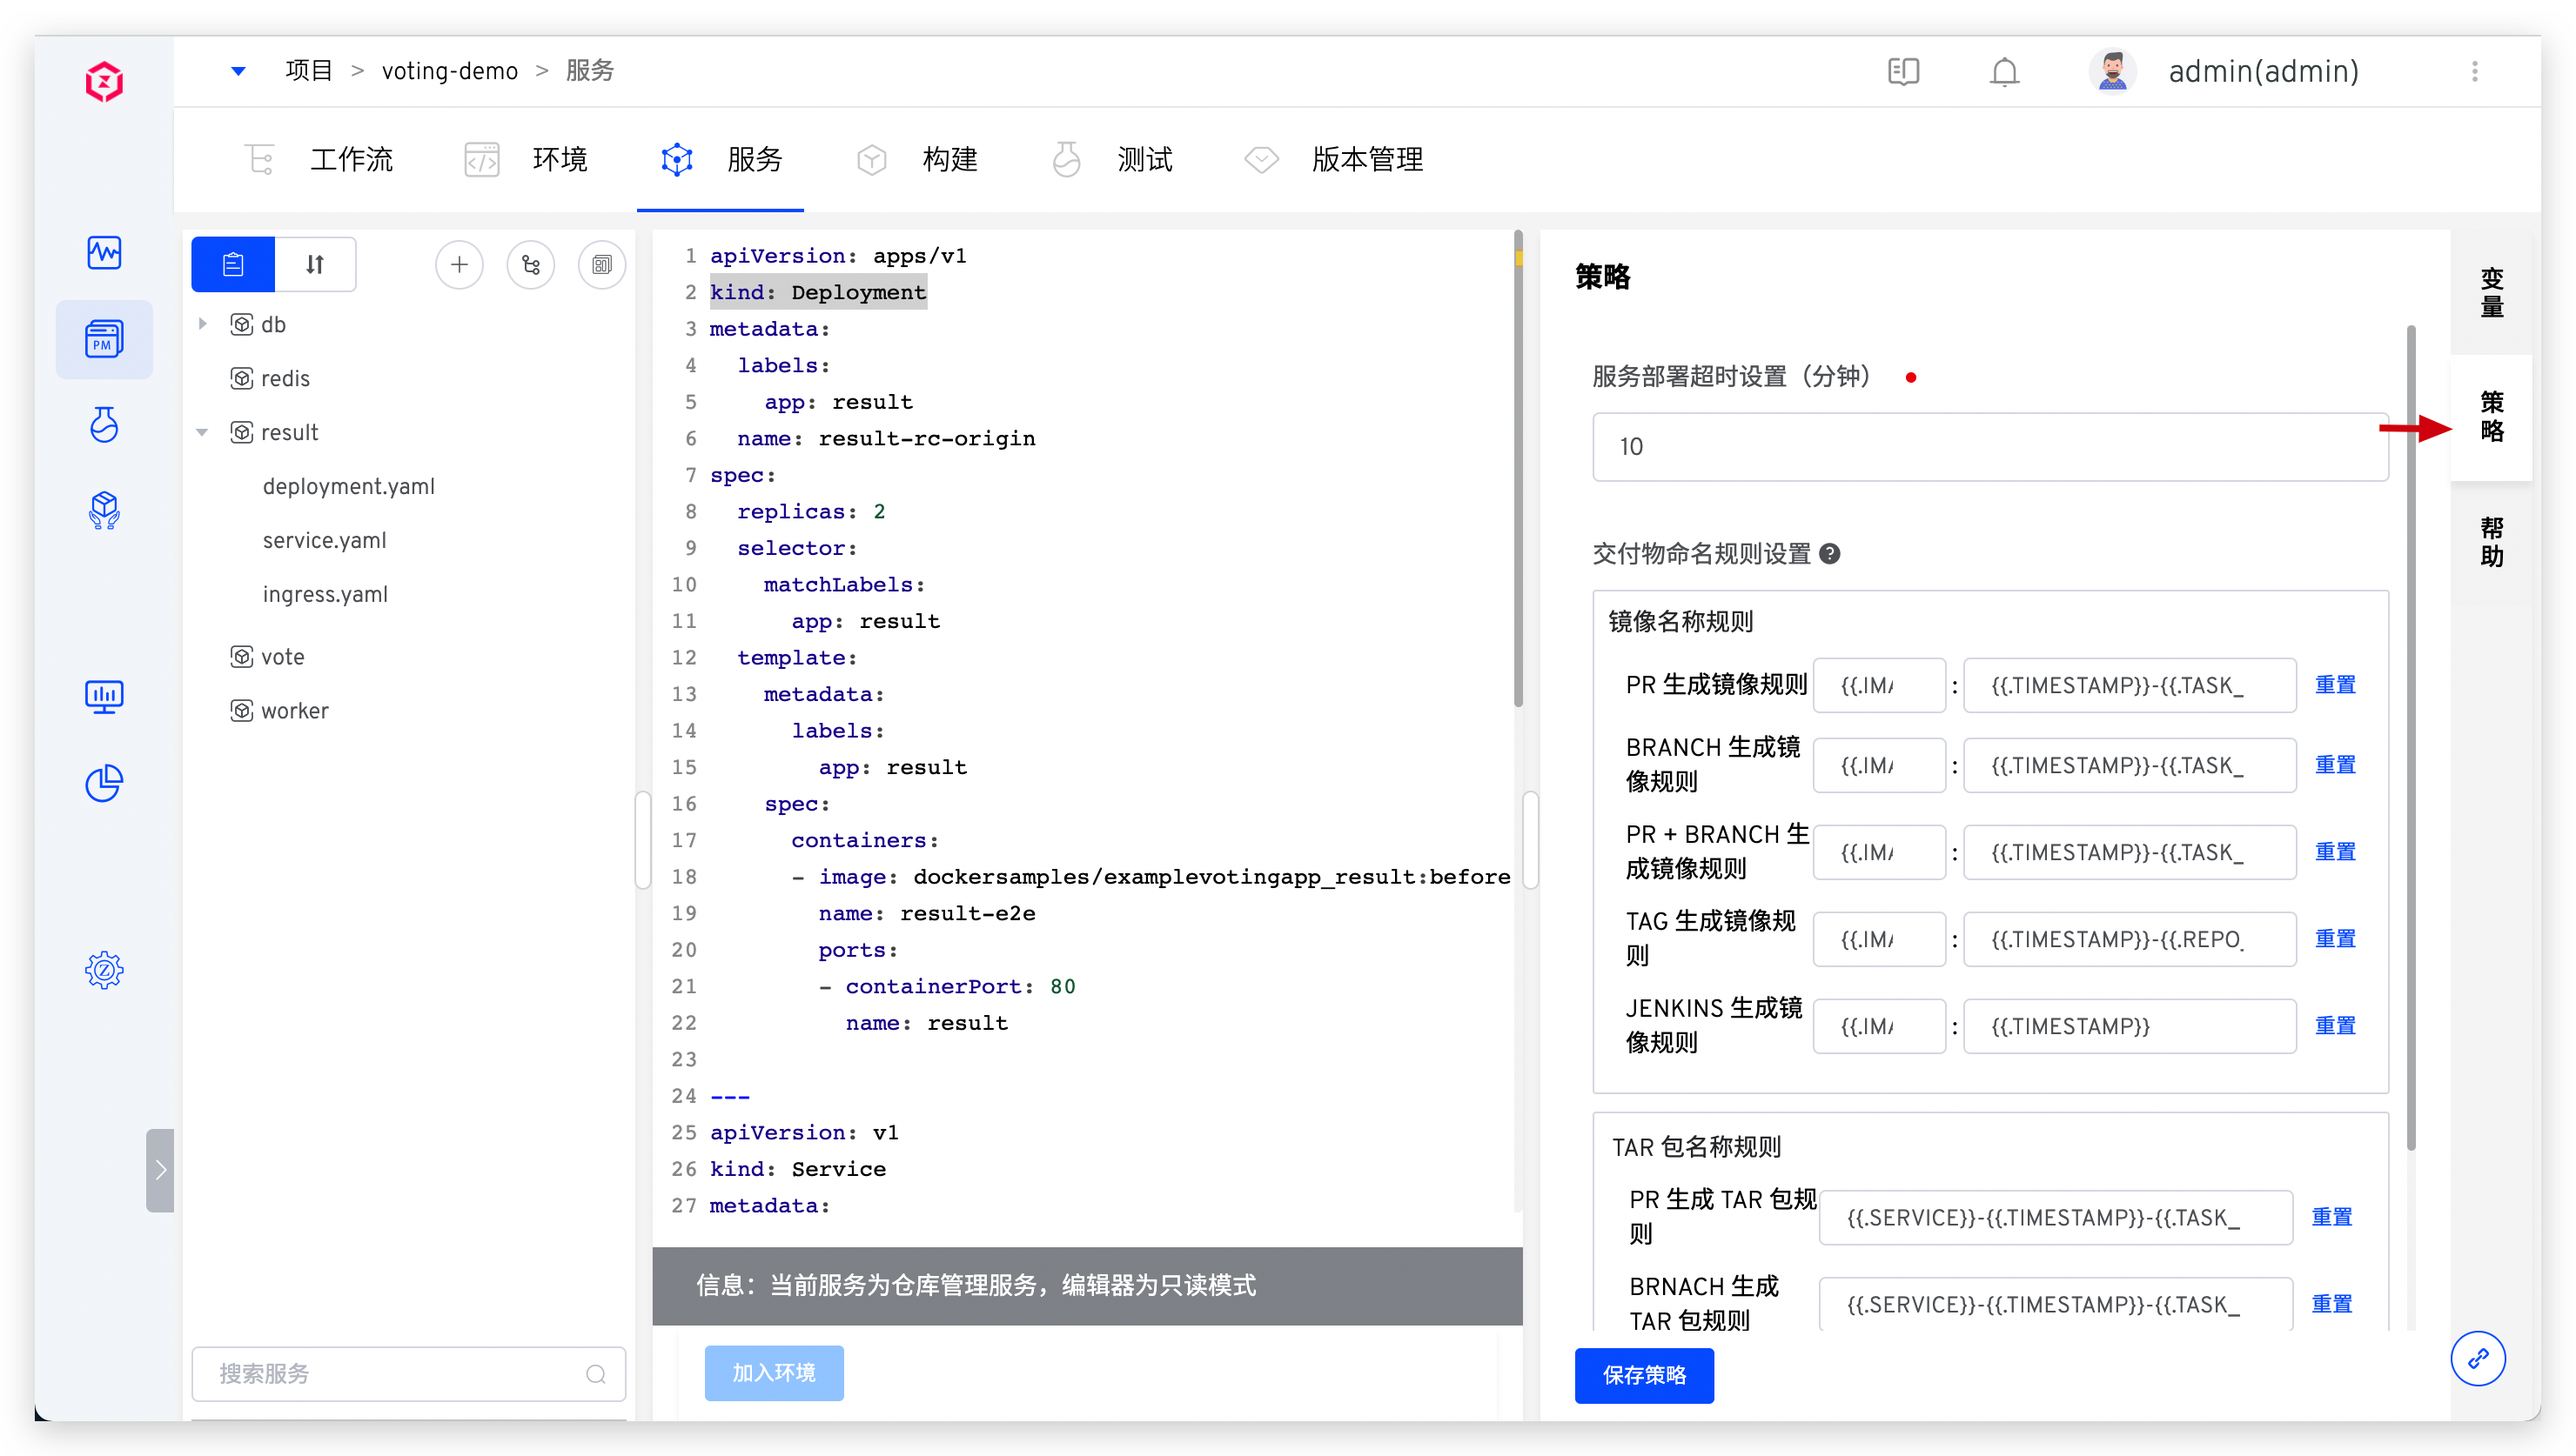
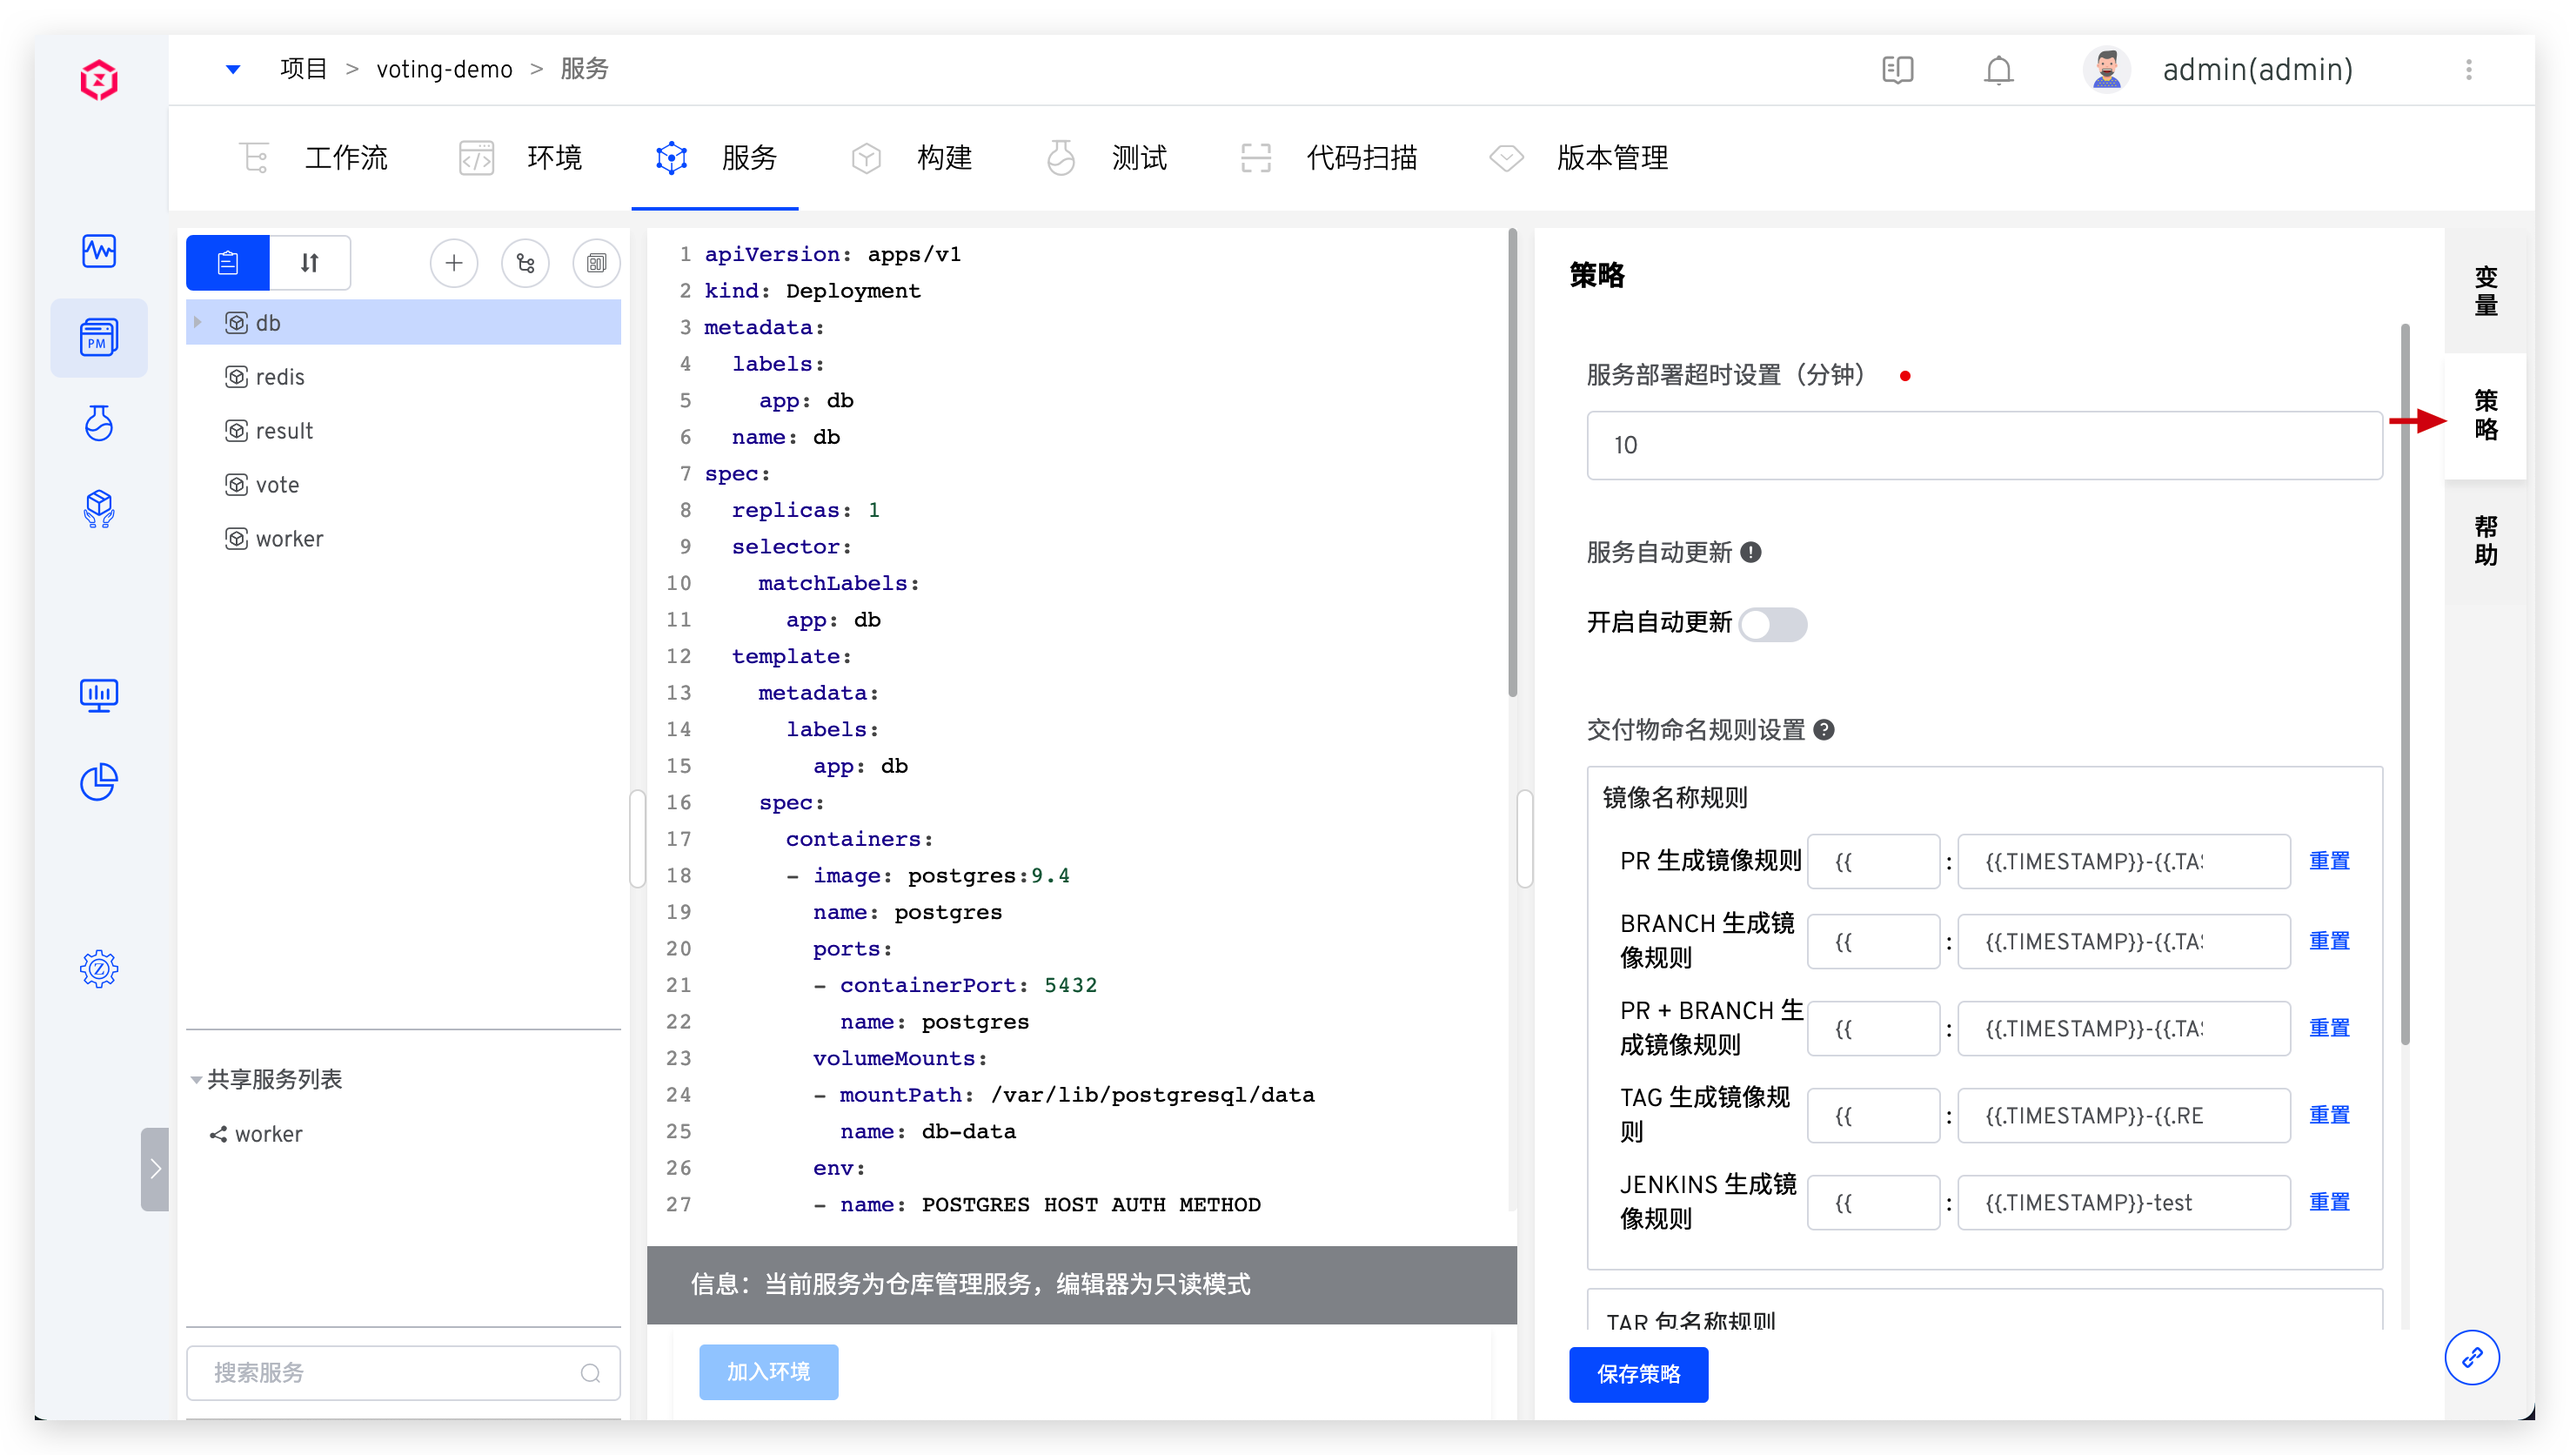
update env if service config changed

diff --git a/dev/04.项目/04.服务/01.k8s_service.md b/dev/04.项目/04.服务/01.k8s_service.md
@@ -277,13 +277,14 @@ spec:
 ![更新集成环境变量渲染](../_images/var_update_env.png)
 
 ## 策略配置
-在策略中设置部署服务的超时时间以及交付物命名规则。
+在策略中设置部署服务的超时时间、服务配置更新后是否自动同步更新环境以及交付物命名规则。
 
 ![服务策略配置](../_images/service_strategy_config.png)
 
 ### 基本说明
 
 - 服务部署超时设置：将服务部署到环境中的超时时间，默认值为 10 分钟。若超出该阈值服务仍未处于 Running 状态，则视为部署超时。
+- 服务自动更新设置：开启后，若服务配置变更，Zadig 会自动对包含该服务的环境进行更新，应用最新的服务配置。
 - 交付物命名规则设置：自定义该项目中工作流构建产物的命名规则，可通过以下[内置变量](#内置变量)和常量组合的方式设置，对当前项目的所有服务都生效。其中 `JENKINS 生成镜像规则`适用于使用 [Jenkins 构建](/dev/project/build/#jenkins-构建) 的服务，不可使用下述[内置变量](#内置变量)中的 `REPO_*` 变量。
 
 ### 内置变量
